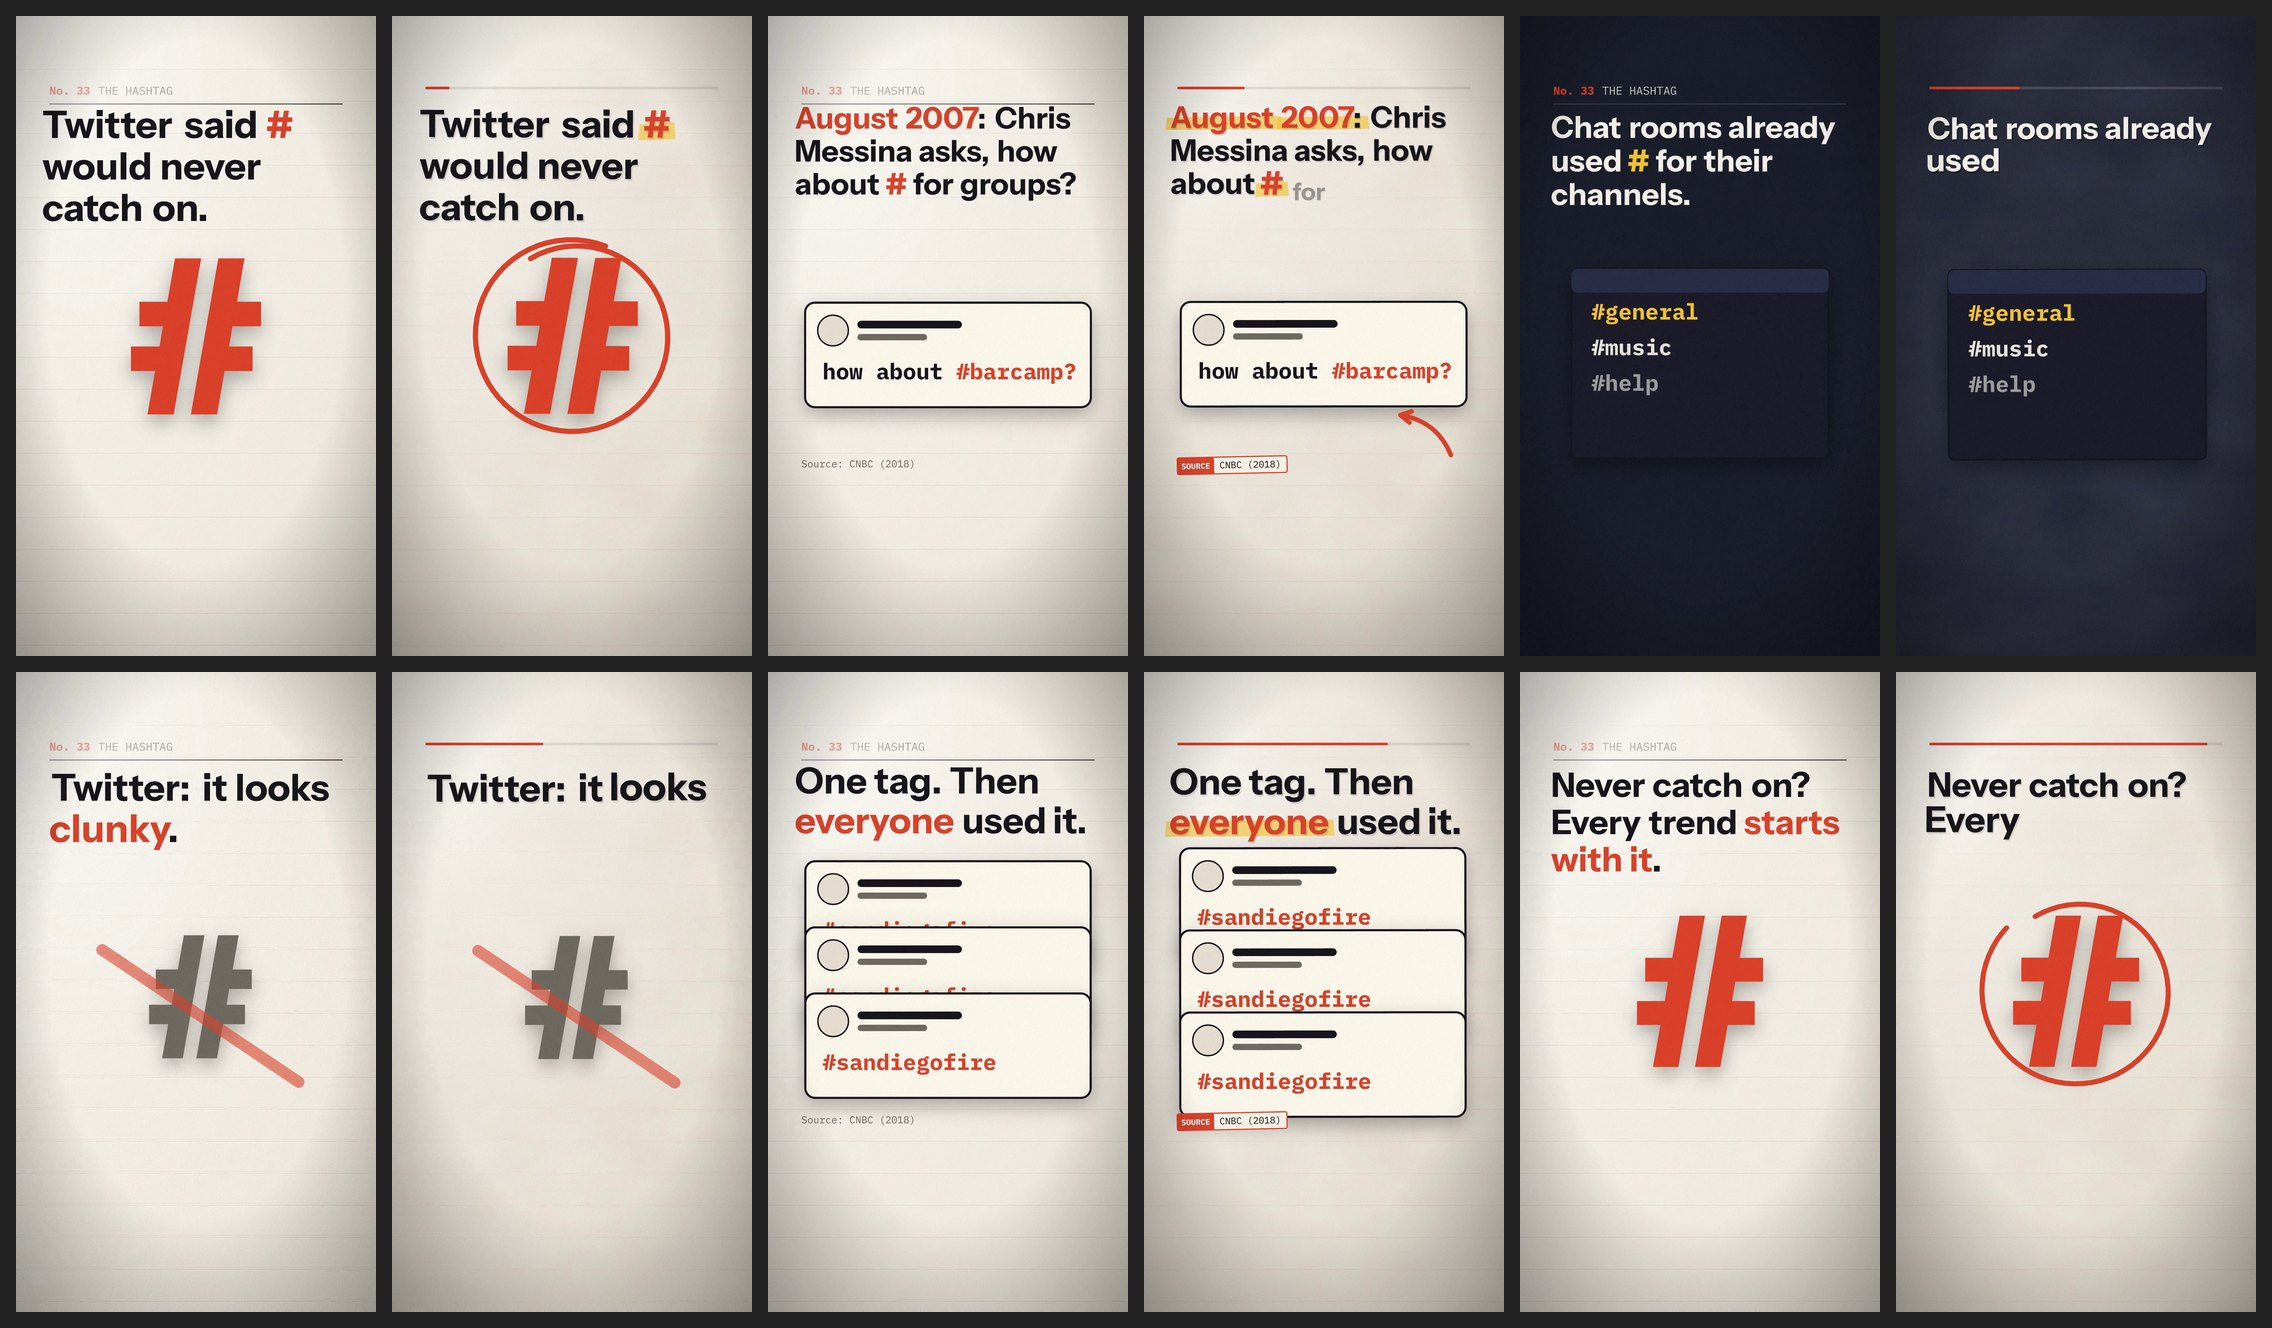
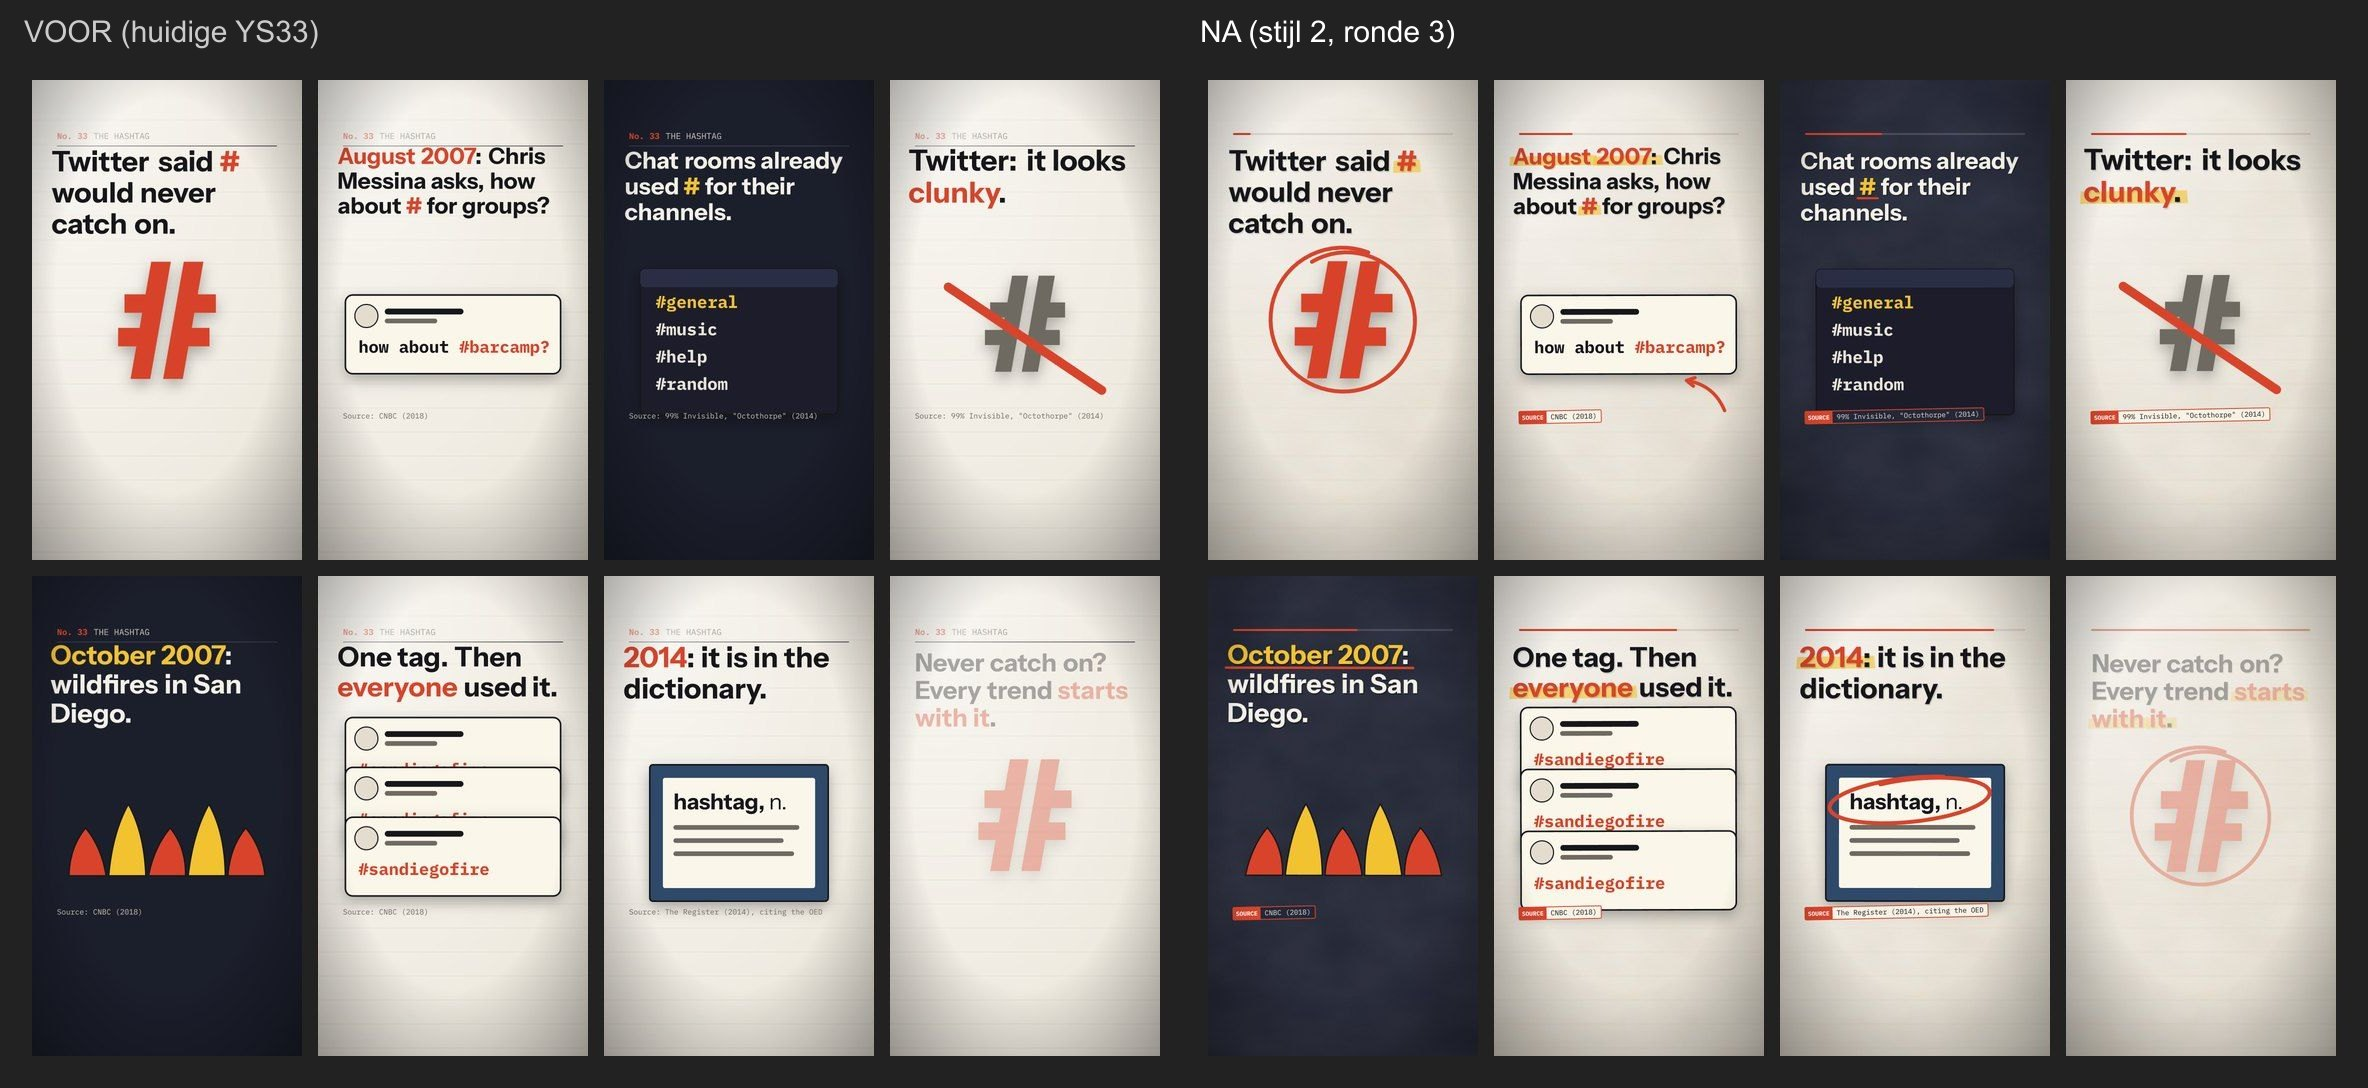
Proef stijl 2 ronde 3 af (voor/na); melding: automaat Instagram sloeg runs over, YS03 nog niet geplaatst

diff --git a/docs/oplevering-manon.md b/docs/oplevering-manon.md
@@ -1,3 +1,5 @@
+KLAAR: proef stijl 2, ronde 3 (professioneel: tekst gelijk met de stem, studiomix, geluid bij markeerstift en krabbels, levende camera, CRF 17); wacht op "stijl OK stijl 2" · ma 9 nov 19:25
+KAN NIET VERDER: YS03 op Instagram kanaal 1 (9 nov 18:00) niet geplaatst, GitHub sloeg de uurlijkse runs over · nodig: ja van Andries om de automaat nu met de hand te starten; structurele oplossing na controle Eva en go Andries · ma 9 nov 19:20
 KLAAR: proef stijl 2, ronde 2 (geen nummer bovenaan, papierstructuur, voortgangsbalk, krabbels, markeerstift, bronstempel): docs/proef-stijl-2.md en docs/proef-stijl-2-voor-na.jpg; wacht op "stijl OK stijl 2" · ma 9 nov 19:05
 KLAAR: proef stijl 2 voor YS (markeerstift, bronstempel, voortgangslijn, dossierlabel; zelfde huisstijl): docs/proef-stijl-2.md en docs/proef-stijl-2-voor-na.jpg; wacht op "stijl OK stijl 2" · ma 9 nov 18:45
 KLAAR: YS33–YS39 gemaakt in vorm 3 (25,5–32,4 s, haak in de eerste seconde, lus), met pakket, Instagram-versie en bijschrift; keurlijst docs/keurlijst-YS33-YS39.md (stijl OK vorm 3, pakket OK en bijschrift OK per code) · ma 9 nov 14:30
